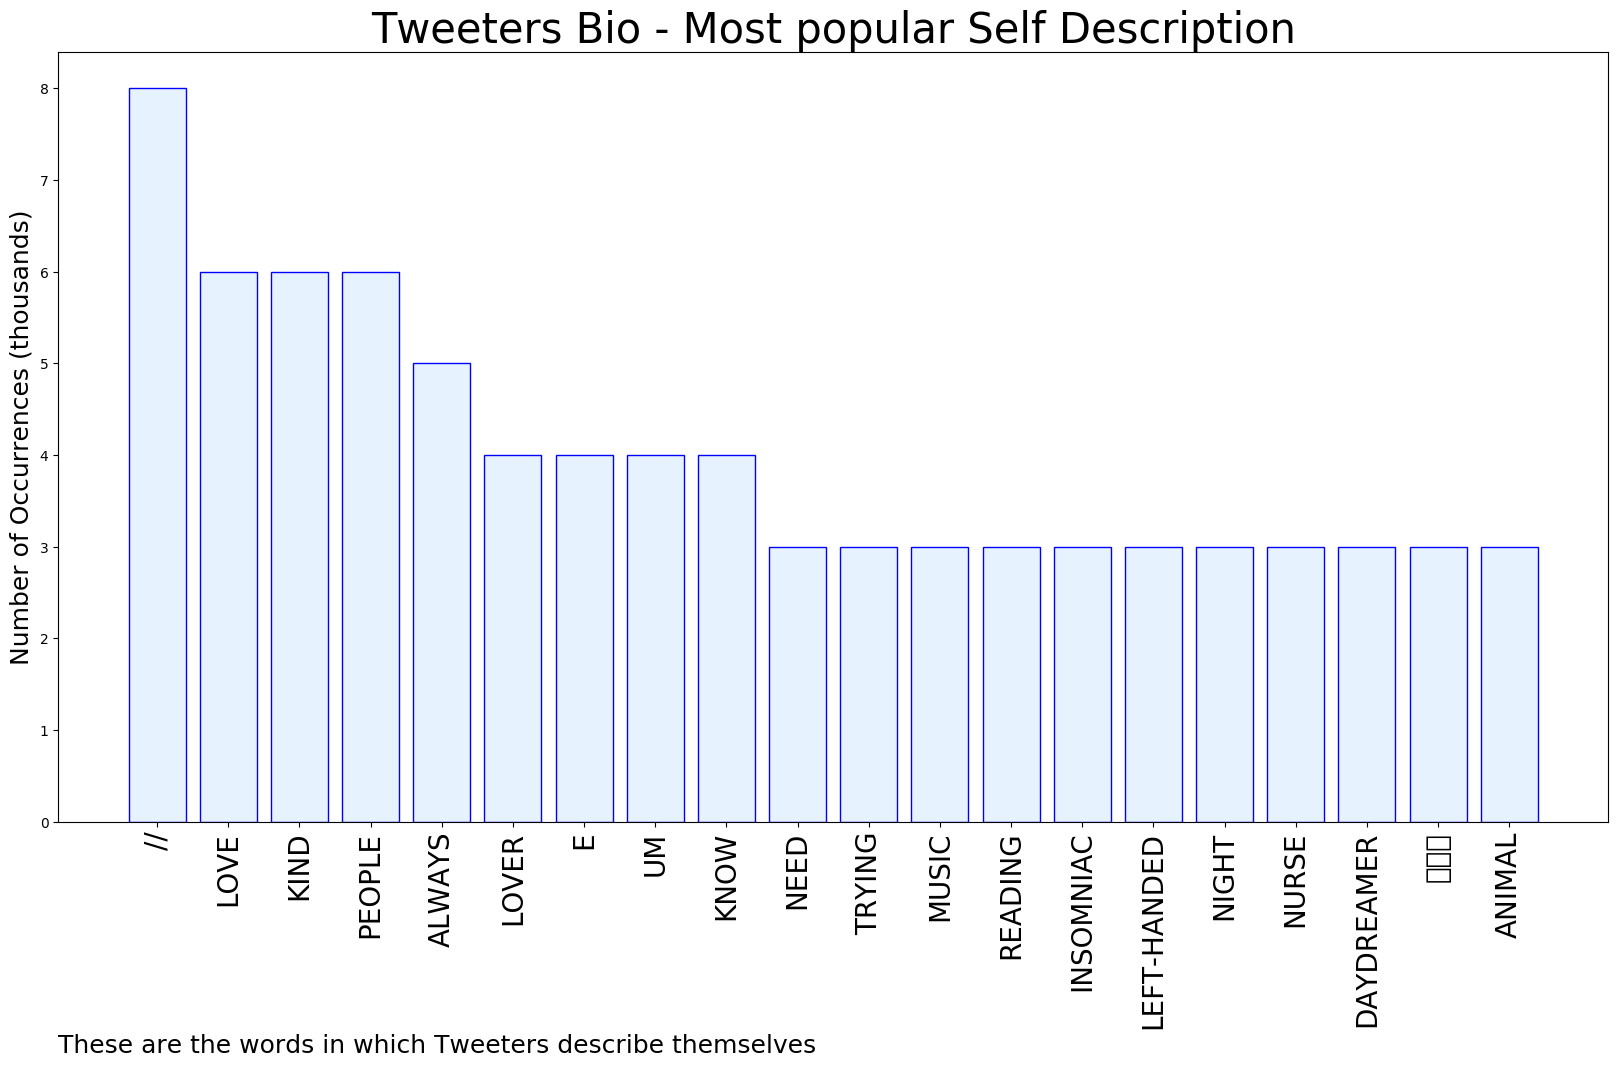
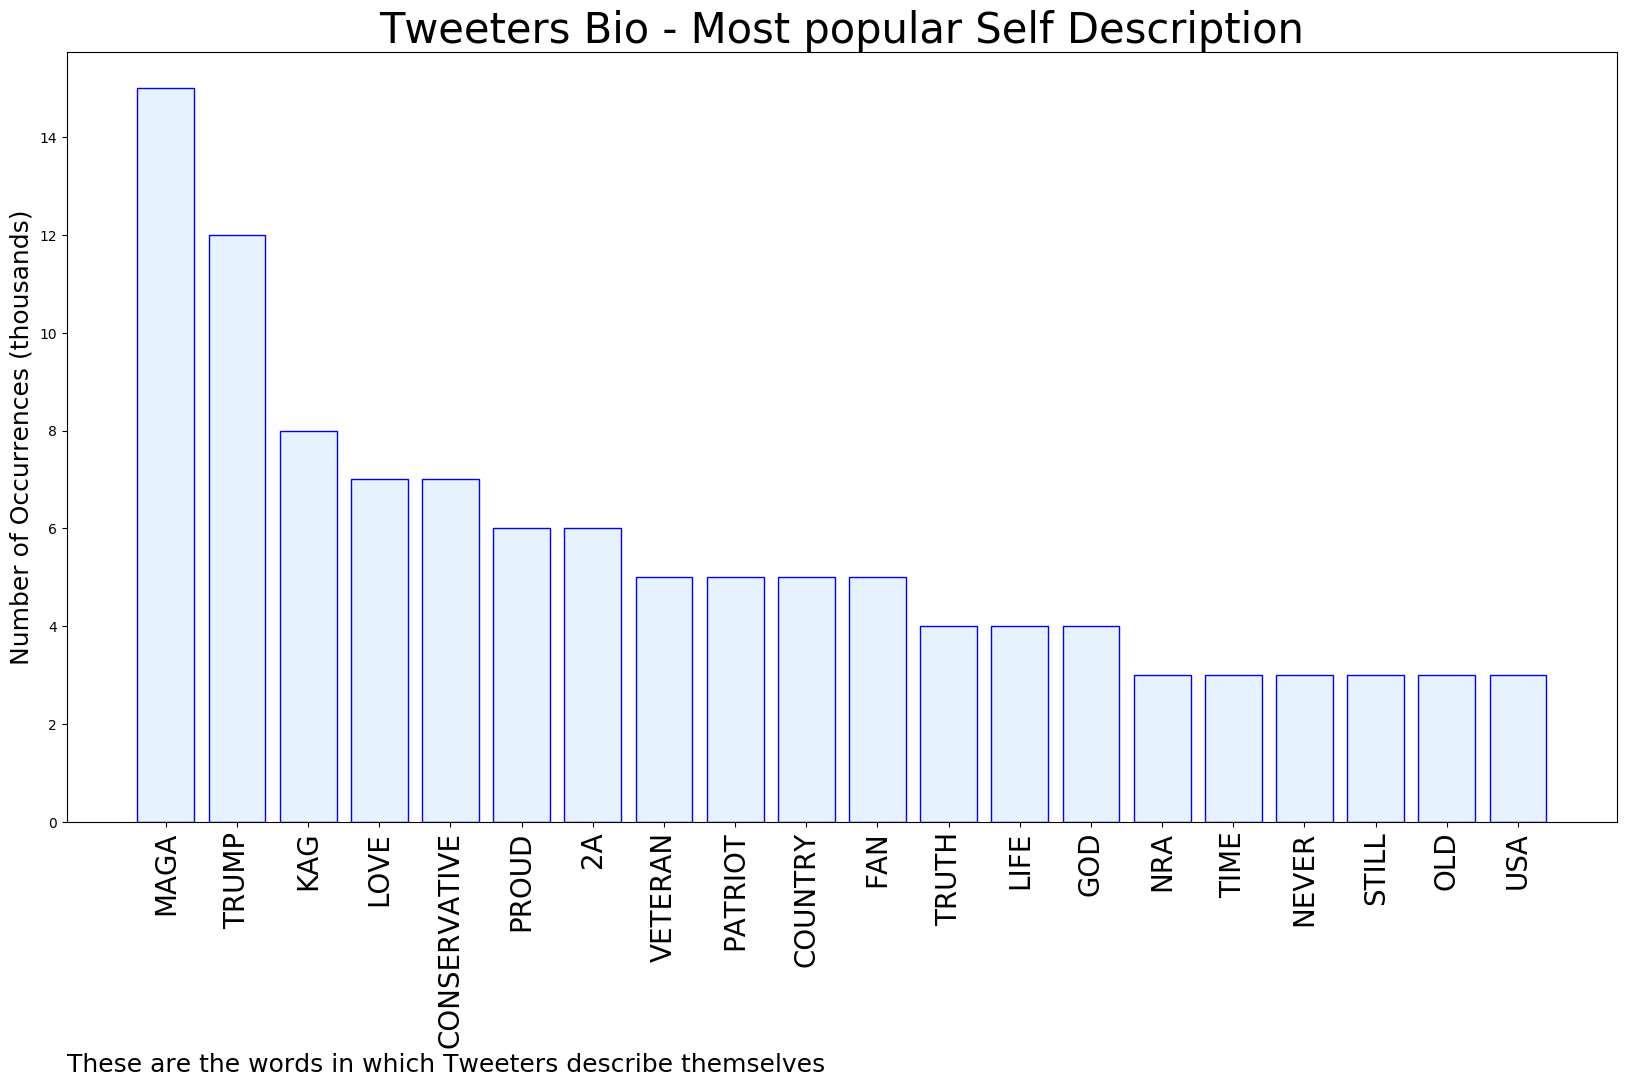
more

diff --git a/README.md b/README.md
@@ -1,5 +1,5 @@
 # MURCHIE85 TWITTER PROCESSING 
-&#x1F34E; **TOPIC = "TheEllenShow"**
+&#x1F34E; **TOPIC = "realDonaldTrump"**
 
 ## AUTOMATED RESEARCH SUMMARY
 
@@ -15,18 +15,20 @@
 
 |                **Sample-Tweets**        |
 | :-------------: |
-| <div class="alert alert-block alert-warning">@TheEllenShow Luv it. Cant stop watching. Sooooo cute</div> <div class="alert alert-block alert-success">RT @TheEllenShow: We’re back! #FriendsReunion https://t.co/kzUrMsACMe</div> <div class="alert alert-block alert-info">.@TheEllenShow Watching you &amp; listening to .@ladygaga are the only things that make me smile, &amp; I’m so proud to be… https://t.co/hlslABRtY4</div> |
-The most popular user is: **AlanN20457069**
-<div class="alert alert-block alert-danger"> RT @TheEllenShow: We’re back! #FriendsReunion https://t.co/kzUrMsACMe</div>
+| <div class="alert alert-block alert-warning">@k_ovfefe2 @realDonaldTrump @FoxNews Human spies to protect all involved.</div> <div class="alert alert-block alert-success">Lol we live in a simulation https://t.co/sLk0f7Zwf7</div> <div class="alert alert-block alert-info">RT @oneLOVE10053967: 😂🤣😂🤣😂🤣😂(:17 Timestamp) https://t.co/hFoWmkhQRE</div> |
+The most popular user is: **OFahrityLora**
+<div class="alert alert-block alert-danger"> RT @RepAdamSchiff: Mr. President, I didn’t say that. But if you wish to quote me, quote this:
+
+”The only thing Americans despise more than…</div>
 
 ## RELATED METRICS<br>
 | Metric | Value |
 | ------------- | ------------- |
-| #1 Most tweeted to  | **TheEllenShow** |
-| #2 Most tweeted to  | **PeteButtigieg** |
-| #3 Most tweeted to  | **astridsingsjazz** |
-| NewProfiles (less than 10 days) | 3.0%  |
-| Tweeters with < 10 followers  | 15.0%|
+| #1 Most tweeted to  | **realDonaldTrump** |
+| #2 Most tweeted to  | **FoxNews** |
+| #3 Most tweeted to  | **Cernovich** |
+| NewProfiles (less than 10 days) | 2.0%  |
+| Tweeters with < 10 followers  | 4.0%|
 | Tweeters with > 1000000 followers  | 0.0%  |
 
 
@@ -35,30 +37,31 @@ The most popular user is: **AlanN20457069**
 
 
 | Popularity Rank  | Term |
-
 | ------------- | ------------- |
-| first  | **@THEELLENSHOW:**  |
-| second  | **FRIENDSREUNION**  |
-| third  | **WE’RE** |
-| fourth  | **BACK!**  |
-| fifth  | **@THEELLENSHOW**  |
+| first  | **@REALDONALDTRUMP**  |
+| second  | **@FOXNEWS**  |
+| third  | **BERNIE** |
+| fourth  | **TRUMP**  |
+| fifth  | **PRESIDENT**  |
 
 
 ## Twitter Bio Analysis![image](BIO.png)
 ### SENTIMENT ANALYSIS
 ![image](sentiment.png)
-VIEWS WERE : **SUBJECTIVE**  (26.67%) & **NEGATIVELY-SUBJECTIVE** (6.67%) **OBJECTIVE** (66.67%)
+VIEWS WERE : **SUBJECTIVE**  (26.67%) & **NEGATIVELY-SUBJECTIVE** (0.0%) **OBJECTIVE** (73.33%)
 
 ### TWEET SAMPLE 
 Random value picked from array: 
 
-<div class="alert alert-block alert-info">@TheEllenShow Luv it. Cant stop watching. Sooooo cute</div>
+<div class="alert alert-block alert-info">@k_ovfefe2 @realDonaldTrump @FoxNews Human spies to protect all involved.</div>
 
 ### MOST RETWEETED 
 
-The most retweeted user is: **AlanN20457069**
+The most retweeted user is: **OFahrityLora**
 
-<div class="alert alert-block alert-danger"> RT @TheEllenShow: We’re back! #FriendsReunion https://t.co/kzUrMsACMe</div>
+<div class="alert alert-block alert-danger"> RT @RepAdamSchiff: Mr. President, I didn’t say that. But if you wish to quote me, quote this:
+
+”The only thing Americans despise more than…</div>
 
 ### CONCLUSION & EXTERNAL ANALYSIS
 
